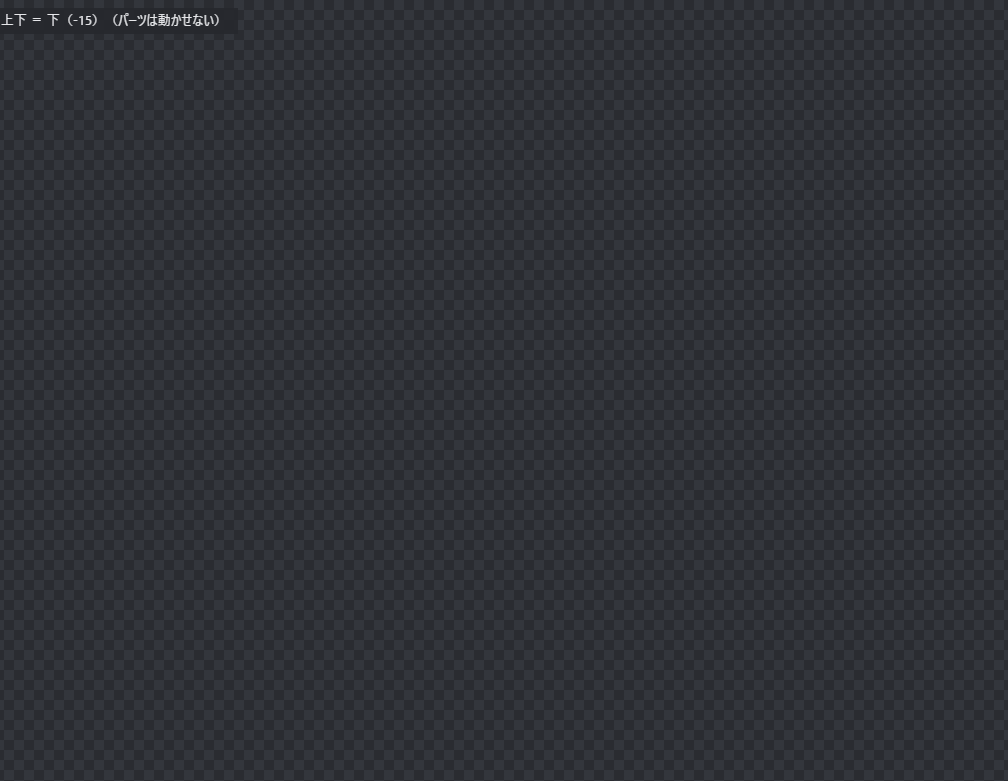
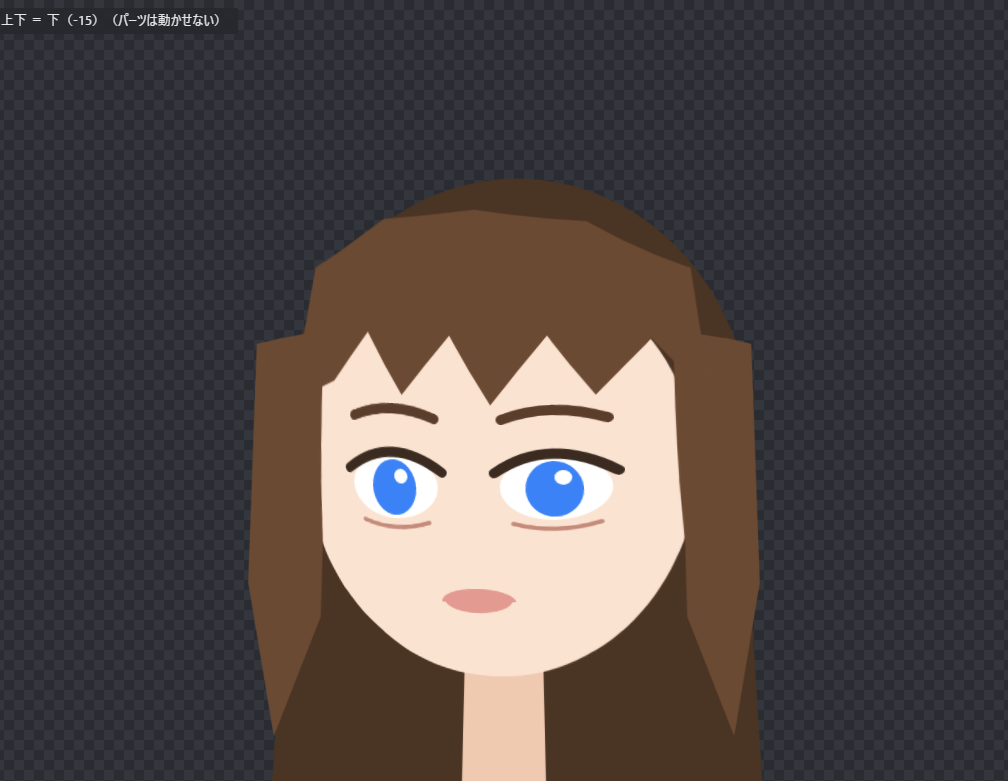
カード56: サンプルモデルの25の姿勢を撮り直す（メッシュの無いパーツにメッシュを作ってから撮る）

diff --git a/docs/step3/cards/56_i039-cut.md b/docs/step3/cards/56_i039-cut.md
@@ -60,3 +60,5 @@
 - 2026-10-07 CO（テスト担当の確認途中）: 両方の JSON に25の重複しない姿勢があり、X・Y は -30/-15/0/15/30、対応する PNG は各25枚そろっていた。基準モデルの一覧はキャラクターが表示されている。
 - 修正待ち: sample-model_head-pose_poses.png は25マスすべて市松模様だけで、サンプルモデルが表示されていない。比較画像として判定できない。画像を撮る側（CL）がサンプルモデルの表示を直して撮り直す必要がある。
 - 未確認: 物理のなし・ありの比較、ユーザーの姿勢ごとの合否、UC-CH-17。テスト確認・完了にはしていない。
+- 2026-10-07 CL（上の修正待ちへの対応）: sample-model は project.json にメッシュが無く、メッシュの無い画像パーツは描かれないので、撮る道具が何も描けていなかった。tools/dev/head-pose-capture.mjs で、アプリの「サンプルモデルを開く」と同じく、メッシュの無い画像パーツに標準の細かさのメッシュを作ってから、かんたんセットアップを掛けるようにした（fixtures は変えない。メモリの中だけ）。開発サーバー（ロックを取った）で `POSES=grid MODEL=sample-model` を撮り直し、25枚と一覧 sample-model_head-pose_poses.png を差し替えた。一覧の25マスすべてにキャラクターが出て、左右で目と顔の向きが変わることを見た（姿勢の JSON は前と同じ）。基準モデルはもともとメッシュがあり、道具の変更の影響を受けないので撮り直していない。
+- 次: テストの担当（CO）の画像の確認のやり直し。ユーザーの姿勢ごとの判定と物理のあり・なしの見え方はカード70 の実機で行う。

diff --git a/docs/step3/README.md b/docs/step3/README.md
@@ -137,7 +137,7 @@ pnpm はリポジトリの中の Corepack で動かす。PowerShell で、毎回
 | 番号 | カード                                                                | 段  | 担当 | 依存            | 契約 | 実機 | テスト | 状態                         |
 | ---- | --------------------------------------------------------------------- | --- | ---- | --------------- | ---- | ---- | ------ | ---------------------------- |
 | 55   | [作業の確定と進め方の準備](cards/55_setup.md)                         | 0   | CL   | —               |      |      | CO     | コミット済み・テスト確認待ち |
-| 56   | [I-039 の区切り](cards/56_i039-cut.md)                                | 1   | CL   | 55              |      | ○    | CO     | 着手（CL）                   |
+| 56   | [I-039 の区切り](cards/56_i039-cut.md)                                | 1   | CL   | 55              |      | ○    | CO     | コミット済み・実機待ち       |
 | 57   | [PSD の取り込みを Worker へ・素材のメモリ](cards/57_import-worker.md) | 1   | CO   | 55              |      |      | CL     | コミット済み・テスト確認待ち |
 | 58   | [データ保全](cards/58_data-safety.md)                                 | 1   | CL   | 55              | ○    |      | CO     | コミット済み・テスト確認待ち |
 | 59   | [回転中心と表示の印](cards/59_pivot-marks.md)                         | 1   | CO   | 55              |      |      | CL     | 未着手                       |
